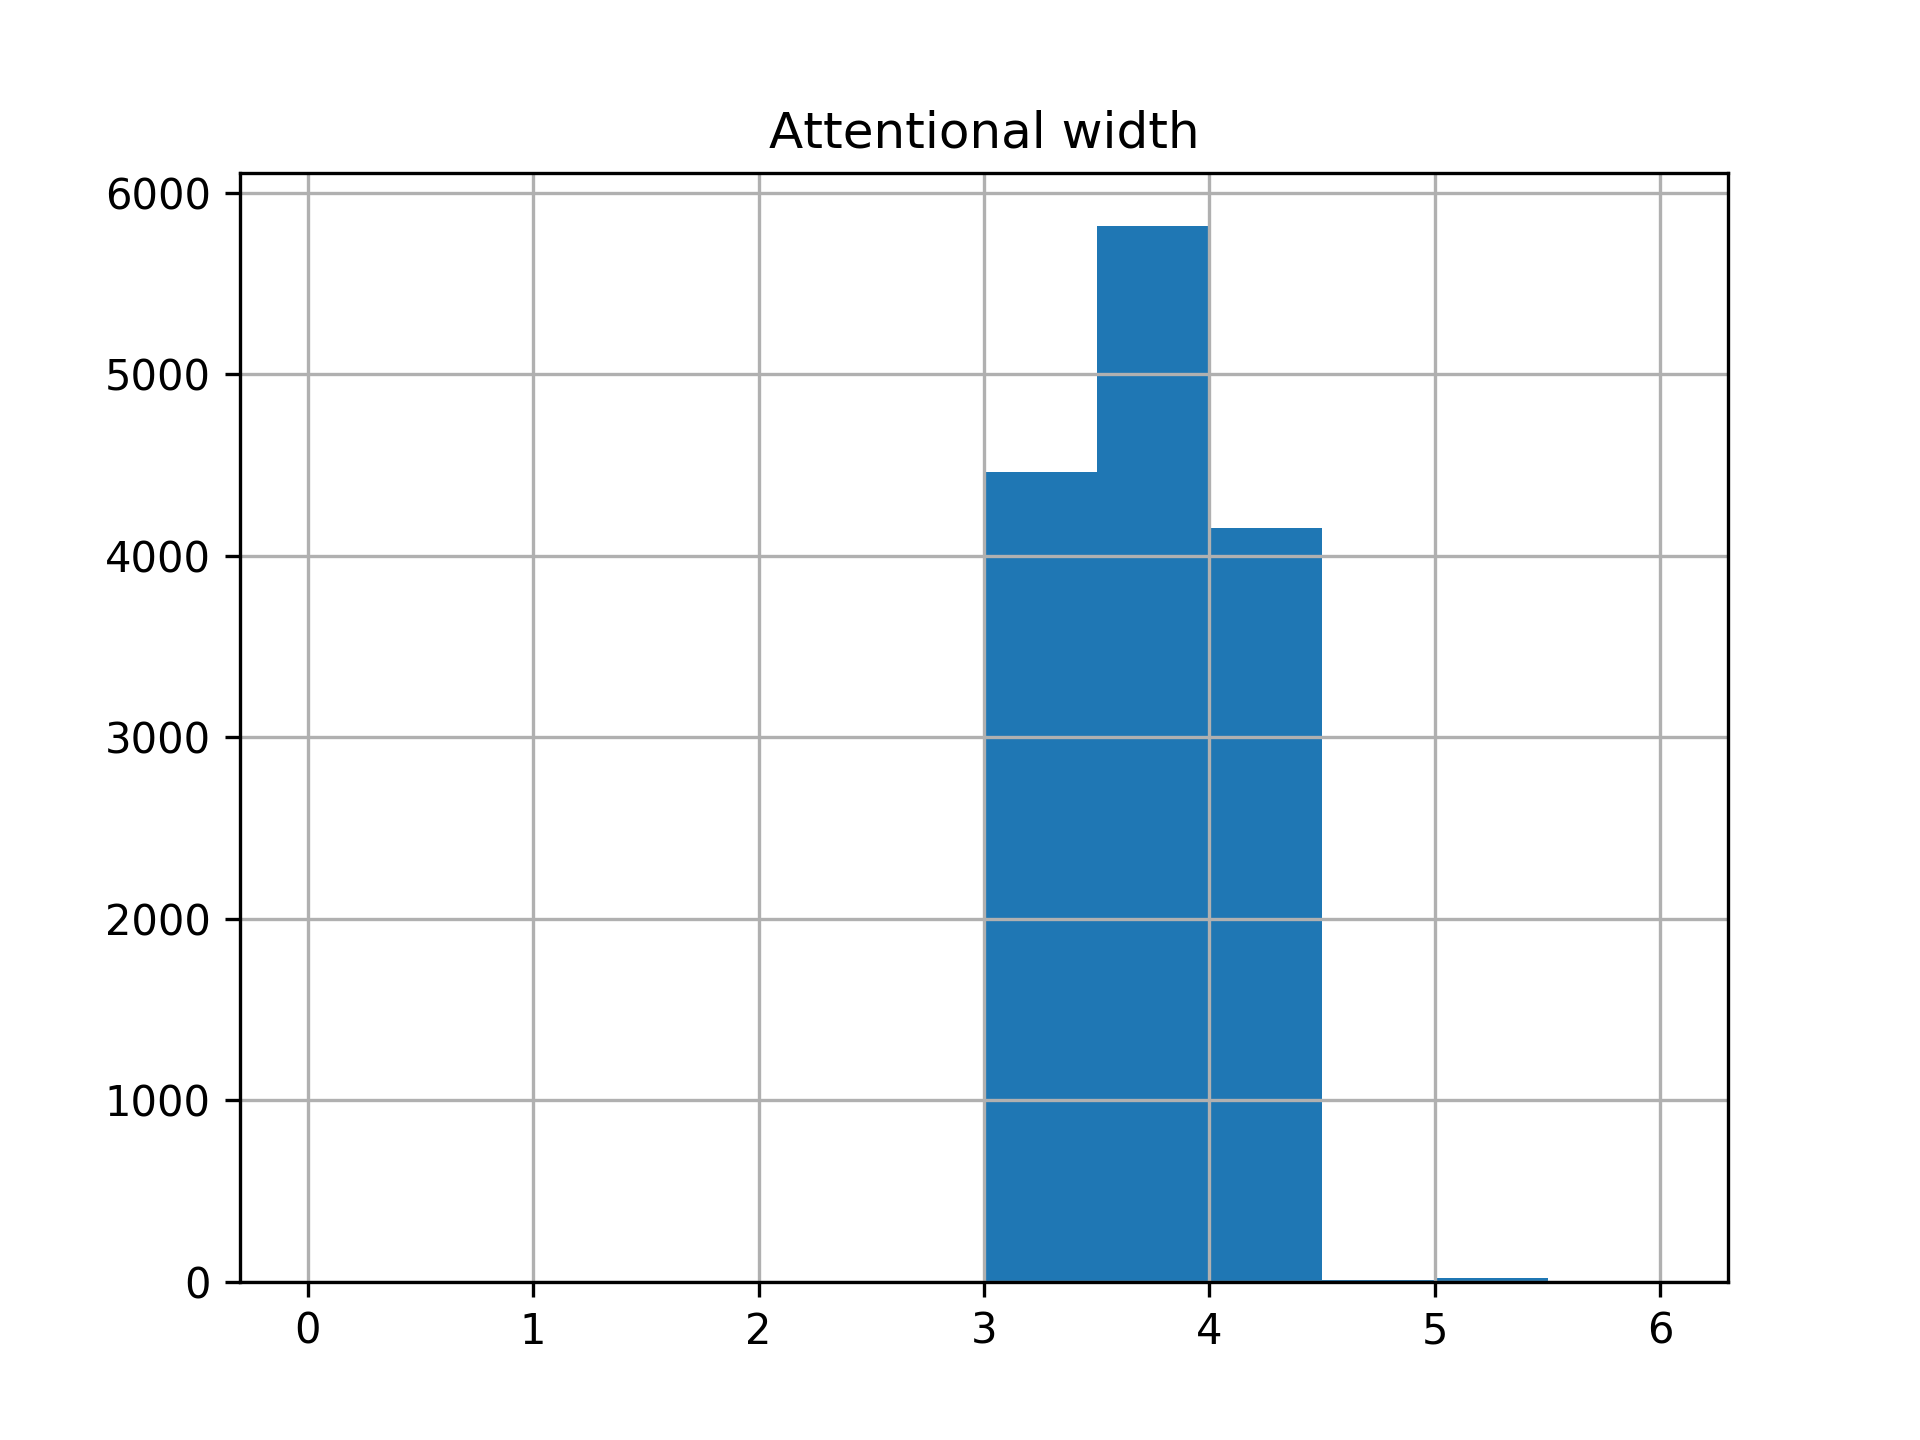
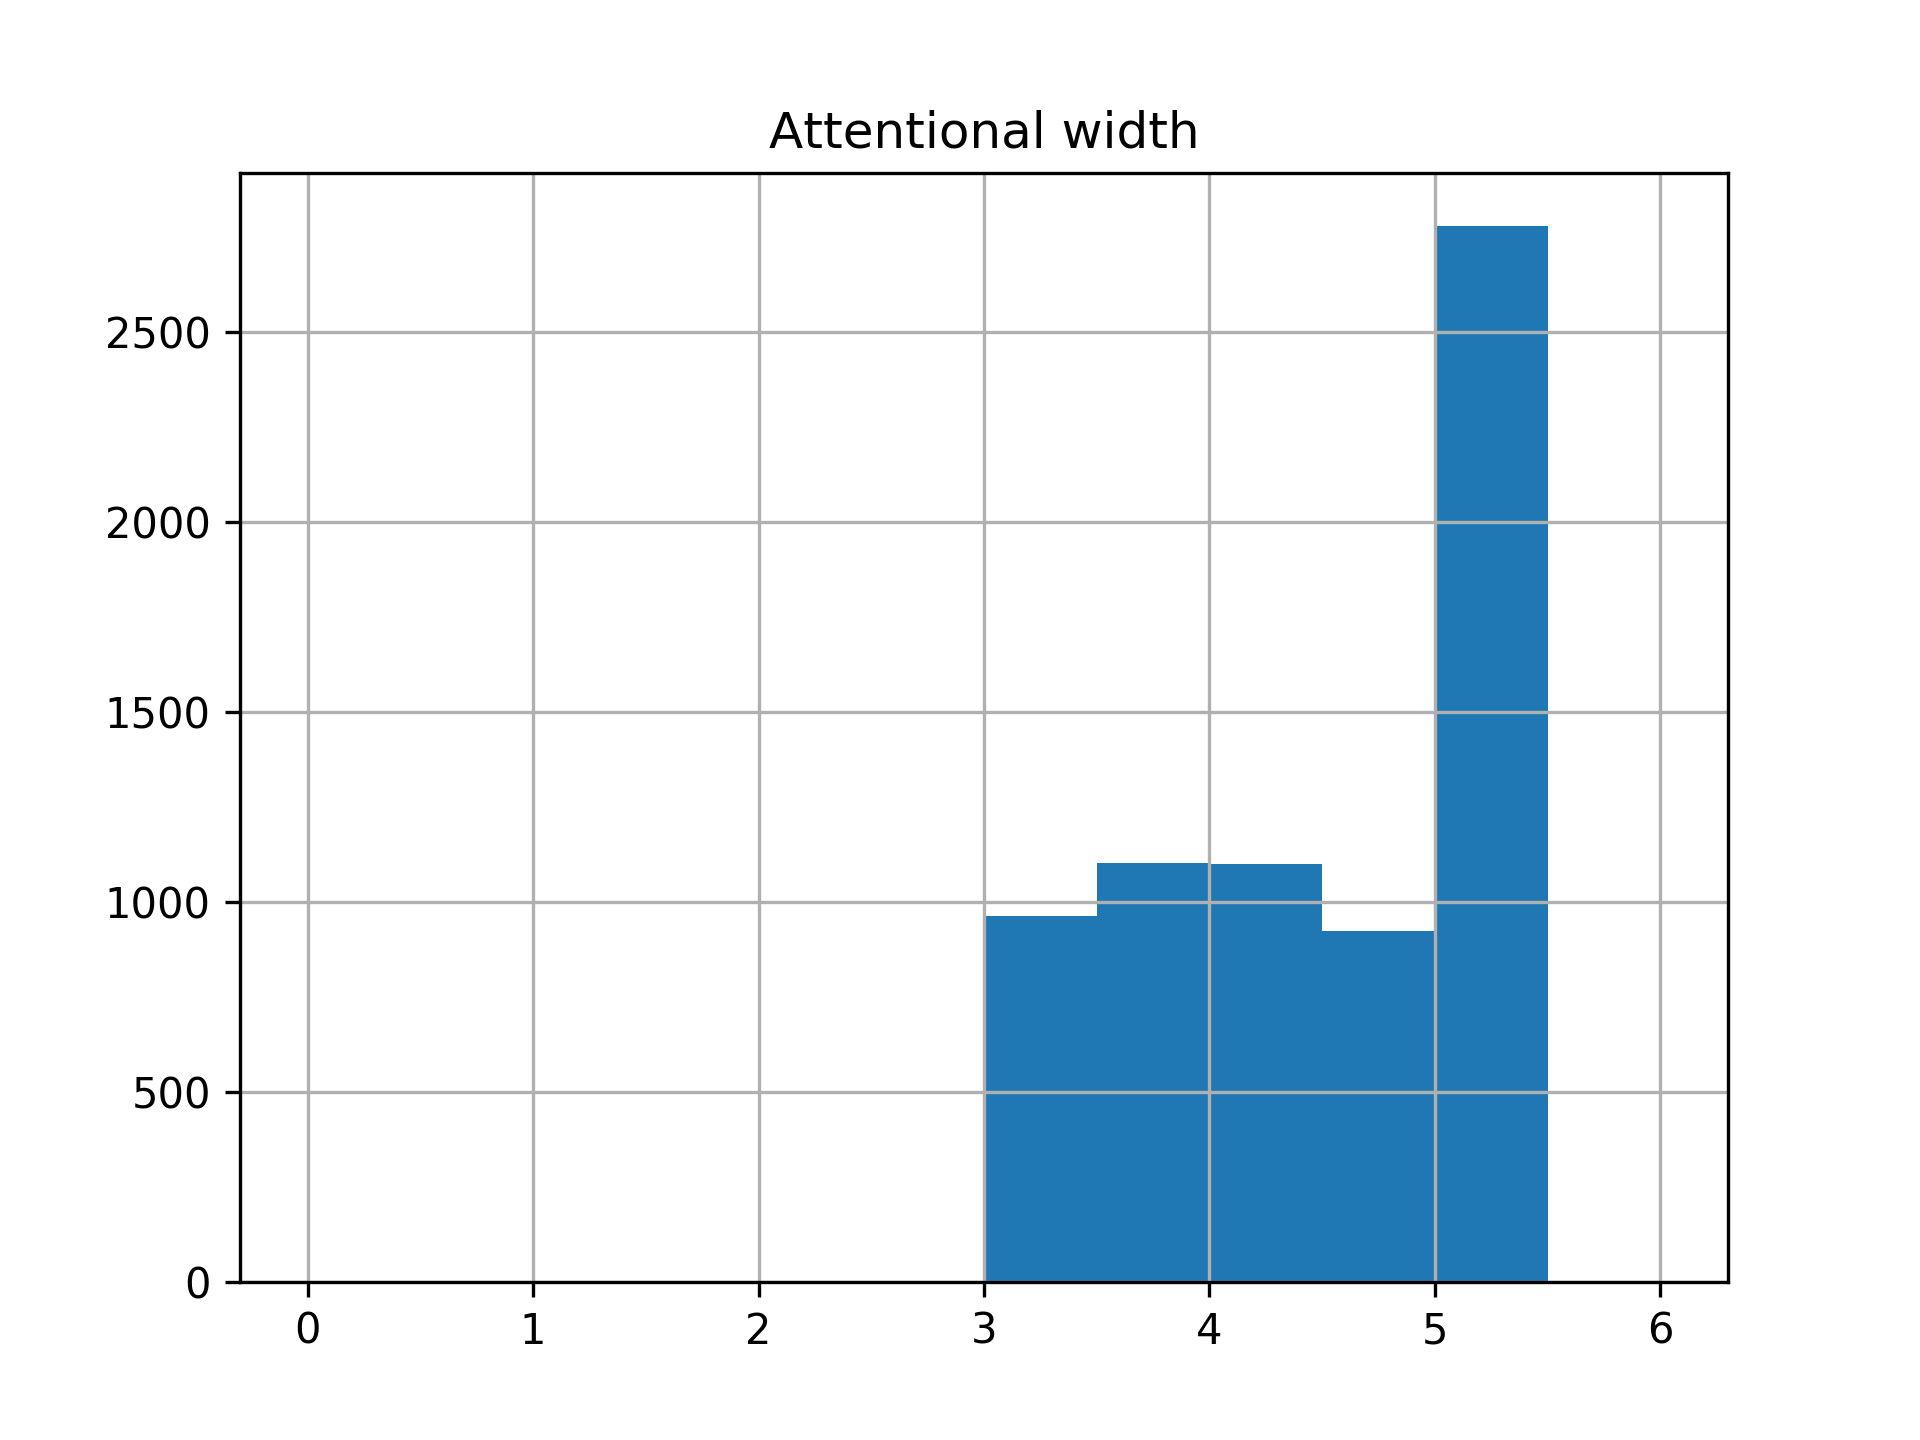
finegrained EA

diff --git a/main_EA.py b/main_EA.py
@@ -125,12 +125,12 @@ def main():
 		creator.create("Individual", list, fitness=creator.FitnessMin)
 
 		def high(x):
-			return x*2
-			#return x*1.33
+			#return x*2
+			return x*1.33
 
 		def low(x):
-			return x/2
-			#return x*0.75
+			#return x/2
+			return x*0.75
 
 		def same(x):
 			return x
@@ -155,7 +155,7 @@ def main():
 			n_params = 3 #number of params to optimize 
 			combinaties = [list(x) for x in list(itertools.product([same, high, low], repeat=n_params))]
 #			start_params = [4.0, 1.29, 7.0, 4.9, 2.2]
-			start_params = [4.5, -1.1, -0.022]
+			start_params = [2.18, -0.55, -0.011]
 			print("Initializing pop with "+str(start_params))
 			contents = [[y(z) for y, z in zip(x, start_params)] for x in combinaties]
 			print(contents)

diff --git a/parameters.py b/parameters.py
@@ -48,9 +48,9 @@ print("-------------------")
 
 ## Monoweight = 1
 decay = -0.053
-bigram_to_word_excitation = 4.5 # inp. divded by #ngrams, so this param estimates excit per word [diff from paper]
-bigram_to_word_inhibition = -1.1
-word_inhibition = -0.022 # -0.002
+bigram_to_word_excitation = 2.18 # inp. divded by #ngrams, so this param estimates excit per word [diff from paper]
+bigram_to_word_inhibition = -0.55
+word_inhibition = -0.011 # -0.002
 
 letPerDeg = .3
 min_activity = 0.0
